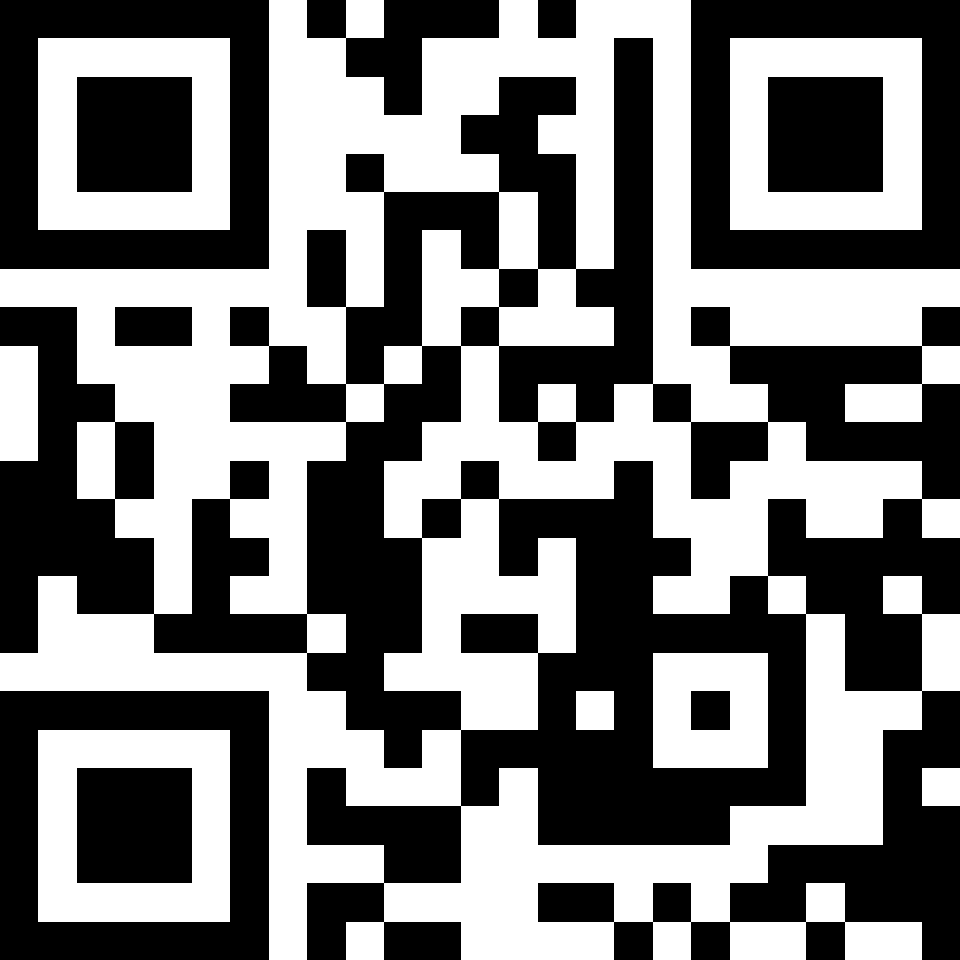
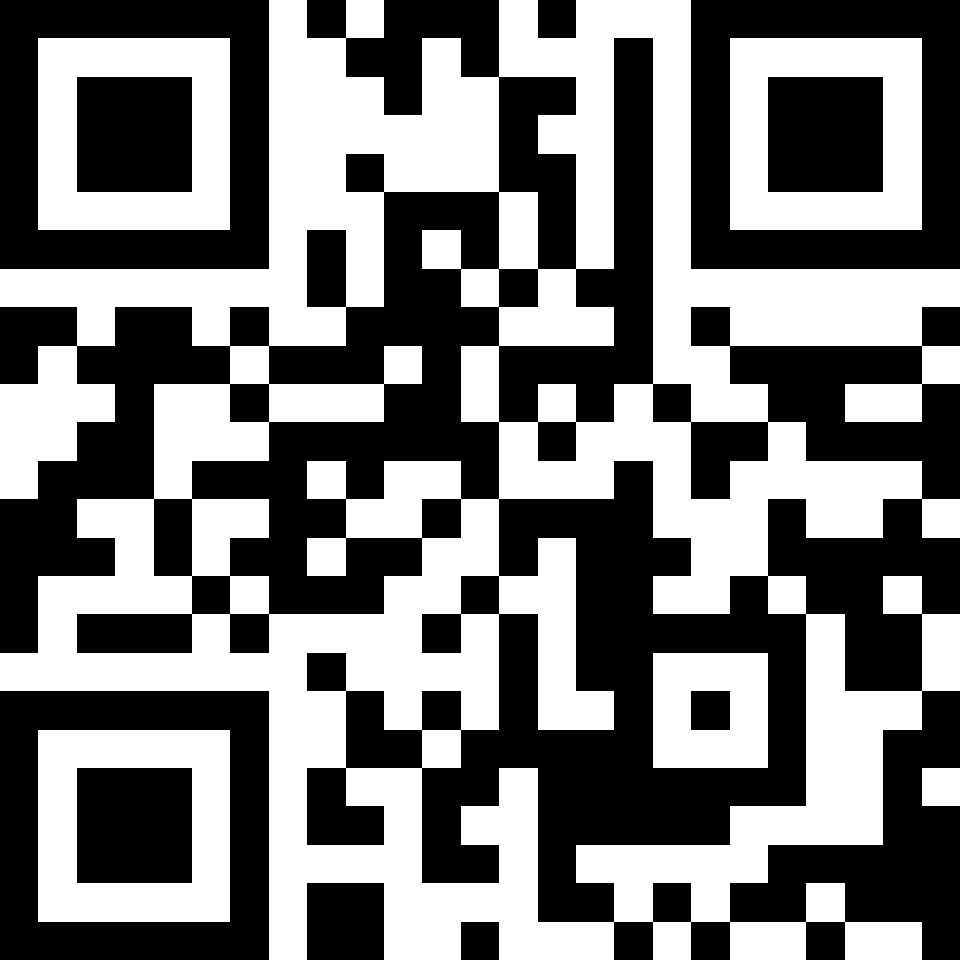
link + qr

diff --git a/src/components/admin/modals/StoreLinkModal.tsx b/src/components/admin/modals/StoreLinkModal.tsx
@@ -27,7 +27,7 @@ const StoreLinkModal: React.FC<StoreLinkModalProps> = ({ storeLink, handleClose 
   const qrCodeUrl = '/store-qr-code.png';
   const screenshotUrl = '/arewamodescreen.png';
   const shareMessage =
-    '🌟 Discover authentic fashion at the new Arewa Mode Online Store! 🛒 Enjoy exclusive discounts 🎉 A beautiful selection of fabrics & Materias ✨ Nationwide delivery 🚚 🇳🇬. Shop now: https://tinyurl.com/arewamode1';
+    '🌟 Discover authentic fashion at the new Arewa Mode Online Store! 🛒 Enjoy exclusive discounts 🎉 A beautiful selection of fabrics & Materias ✨ Nationwide delivery 🚚 🇳🇬. Shop now: https://https://tinyurl.com/alaniqint.com/arewamode1';
   const [copyMsgSuccess, setCopyMsgSuccess] = useState(false);
 
   const handleCopyLink = () => {
@@ -67,7 +67,7 @@ const StoreLinkModal: React.FC<StoreLinkModalProps> = ({ storeLink, handleClose 
   };
 
   const socialPlatforms = [
-    { name: 'WhatsApp', icon: WhatsAppIcon, url: `https://wa.me/?text=${encodeURIComponent('🌟 Discover authentic fashion at the new Arewa Mode Online Store! 🛒 Enjoy exclusive discounts 🎉 A beautiful selection of fabrics & Materias ✨ Nationwide delivery 🚚 🇳🇬. Shop now: https://tinyurl.com/arewamode1')}`, color: 'hover:text-[#25D366]' },
+    { name: 'WhatsApp', icon: WhatsAppIcon, url: `https://wa.me/?text=${encodeURIComponent('🌟 Discover authentic fashion at the new Arewa Mode Online Store! 🛒 Enjoy exclusive discounts 🎉 A beautiful selection of fabrics & Materias ✨ Nationwide delivery 🚚 🇳🇬. Shop now: https://https://tinyurl.com/alaniqint.com/arewamode1')}`, color: 'hover:text-[#25D366]' },
     { name: 'Facebook', icon: FacebookIcon, url: `https://www.facebook.com/sharer/sharer.php?u=${encodeURIComponent(storeLinkValue)}`, color: 'hover:text-[#1877F2]' },
     { name: 'Instagram', icon: InstagramIcon, url: `https://www.instagram.com`, color: 'hover:text-[#E4405F]' },
     { name: 'Twitter', icon: TwitterIcon, url: `https://twitter.com/intent/tweet?url=${encodeURIComponent(storeLinkValue)}`, color: 'hover:text-[#1DA1F2]' },

diff --git a/src/components/products/ProductGrid.tsx b/src/components/products/ProductGrid.tsx
@@ -22,7 +22,7 @@ const ProductCard = dynamic(() => import('./ProductCard'), {
 const DUMMY_BUSINESS = {
   ceo: {
   name: 'Haj. Fatimah I. Goni',
-  image: '/images/ceo-profile-northern-nigeria.png',
+  image: '/images/ceo-profile-northern-nigeria.jpg',
 },
   businessName: 'Alaniq INT.',
   phone: '+2349021067212',
@@ -241,7 +241,7 @@ function BusinessCardModal({ open, onClose }: { open: boolean; onClose: () => vo
               <div className="text-center pt-2 border-t border-slate-200/50 dark:border-slate-600/50">
                 <p className="text-xs text-slate-500 dark:text-slate-400 flex items-center justify-center gap-1">
                   Powered by <span className='font-semibold text-slate-700 dark:text-slate-300'>Business + Science™</span>
-                  <Atom className="w-3 h-3 text-indigo-500 dark:text-indigo-400" />
+                  {/* <Atom className="w-3 h-3 text-indigo-500 dark:text-indigo-400" /> */}
                 </p>
               </div>
             </div>

diff --git a/src/app/admin/page.tsx b/src/app/admin/page.tsx
@@ -251,7 +251,7 @@ const AdminDashboard = () => {
                   categories={categories}
                   debtors={0}
                   subscriptionStatus={"Active"}
-                  storeLink={'http://tinyurl.com/supermum1'}
+                  storeLink={'http://https://tinyurl.com/alaniqint.com/supermum1'}
                   referrals={0}
                   setIsModalOpen={setIsModalOpen}
                   onRefresh={fetchData}
